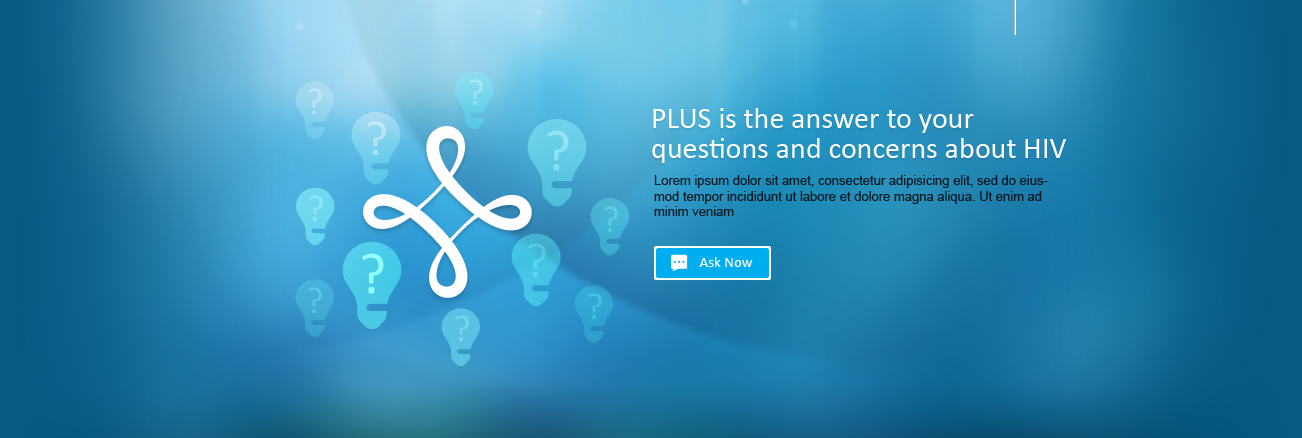
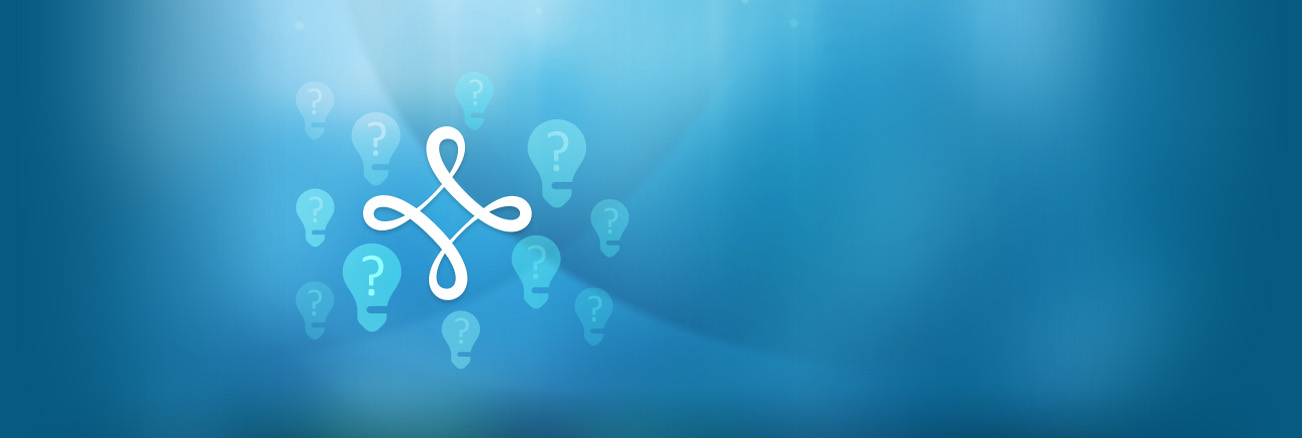
SAT-226 update index javascript

diff --git a/app/assets/stylesheets/plus/style.css b/app/assets/stylesheets/plus/style.css
@@ -2271,7 +2271,8 @@ aside {
     font-size: 13px;
     position: absolute;
     right: 255px;
-    top: 190px;
+    top: 210px;
+    width: 400px;
     z-index: 99999;}
 .mms{background: url("h_teg1.jpg") repeat-x scroll 0 0 transparent;
     border: 2px solid #fff;
@@ -2310,19 +2311,19 @@ aside {
     font-family: Calibri;
     font-size: 15px;
     padding-left: 40px;
-    position: relative;
+    position: absolute;
     top: 5px;}
 .mms1 span{color: #FFFFFF;
     font-family: Calibri;
     font-size: 15px;
     padding-left: 29px;
-    position: relative;
+    position: absolute;
     top: 5px;}
 .mms2 span{color: #FFFFFF;
     font-family: Calibri;
     font-size: 15px;
     padding-left: 25px;
-    position: relative;
+    position: absolute;
     top: 5px;}
 .user_profile1{bottom: 73px;
     margin-left: 20px;
